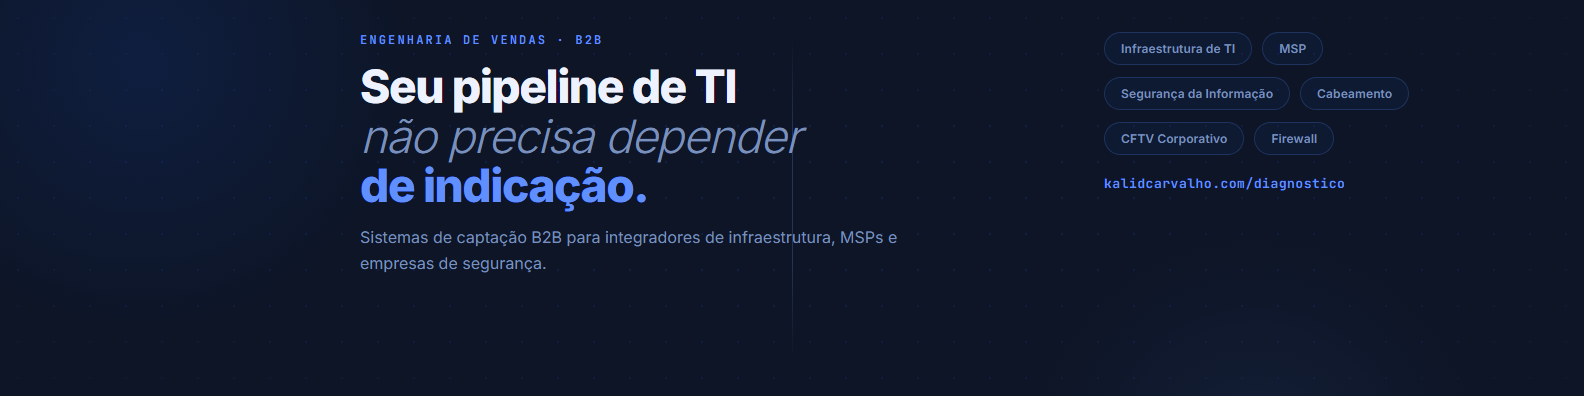
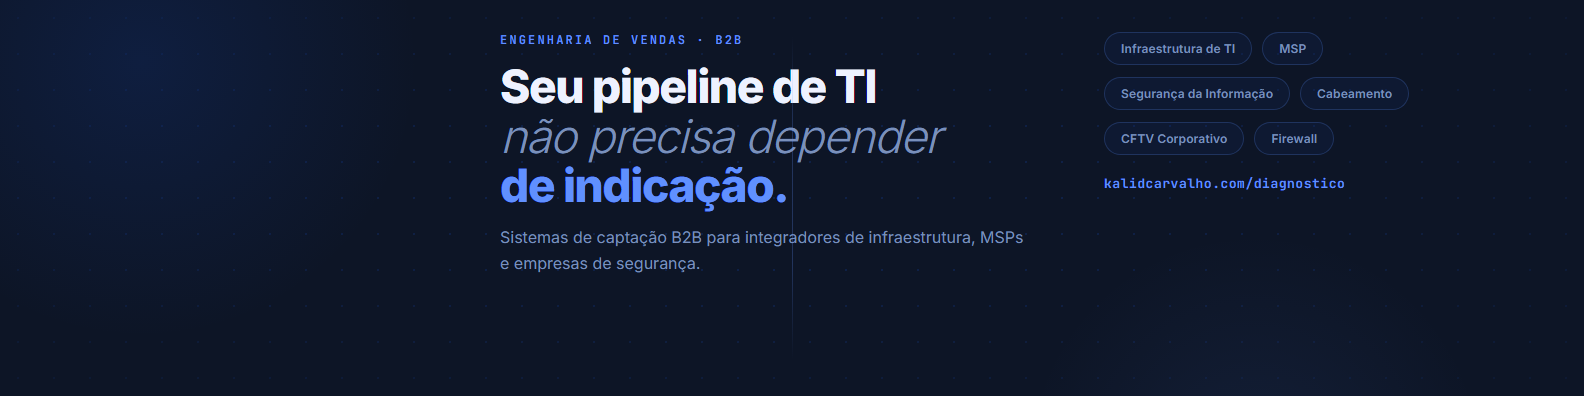
auto-sync: 2026-04-22 22:54

diff --git a/projetos/kalidcarvalho-diagnostico/banner-linkedin.html b/projetos/kalidcarvalho-diagnostico/banner-linkedin.html
@@ -43,7 +43,7 @@
     width: 100%; height: 100%;
     display: flex;
     align-items: flex-start;
-    padding: 32px 80px 0 360px;
+    padding: 32px 80px 0 500px;
     gap: 0;
   }
 
